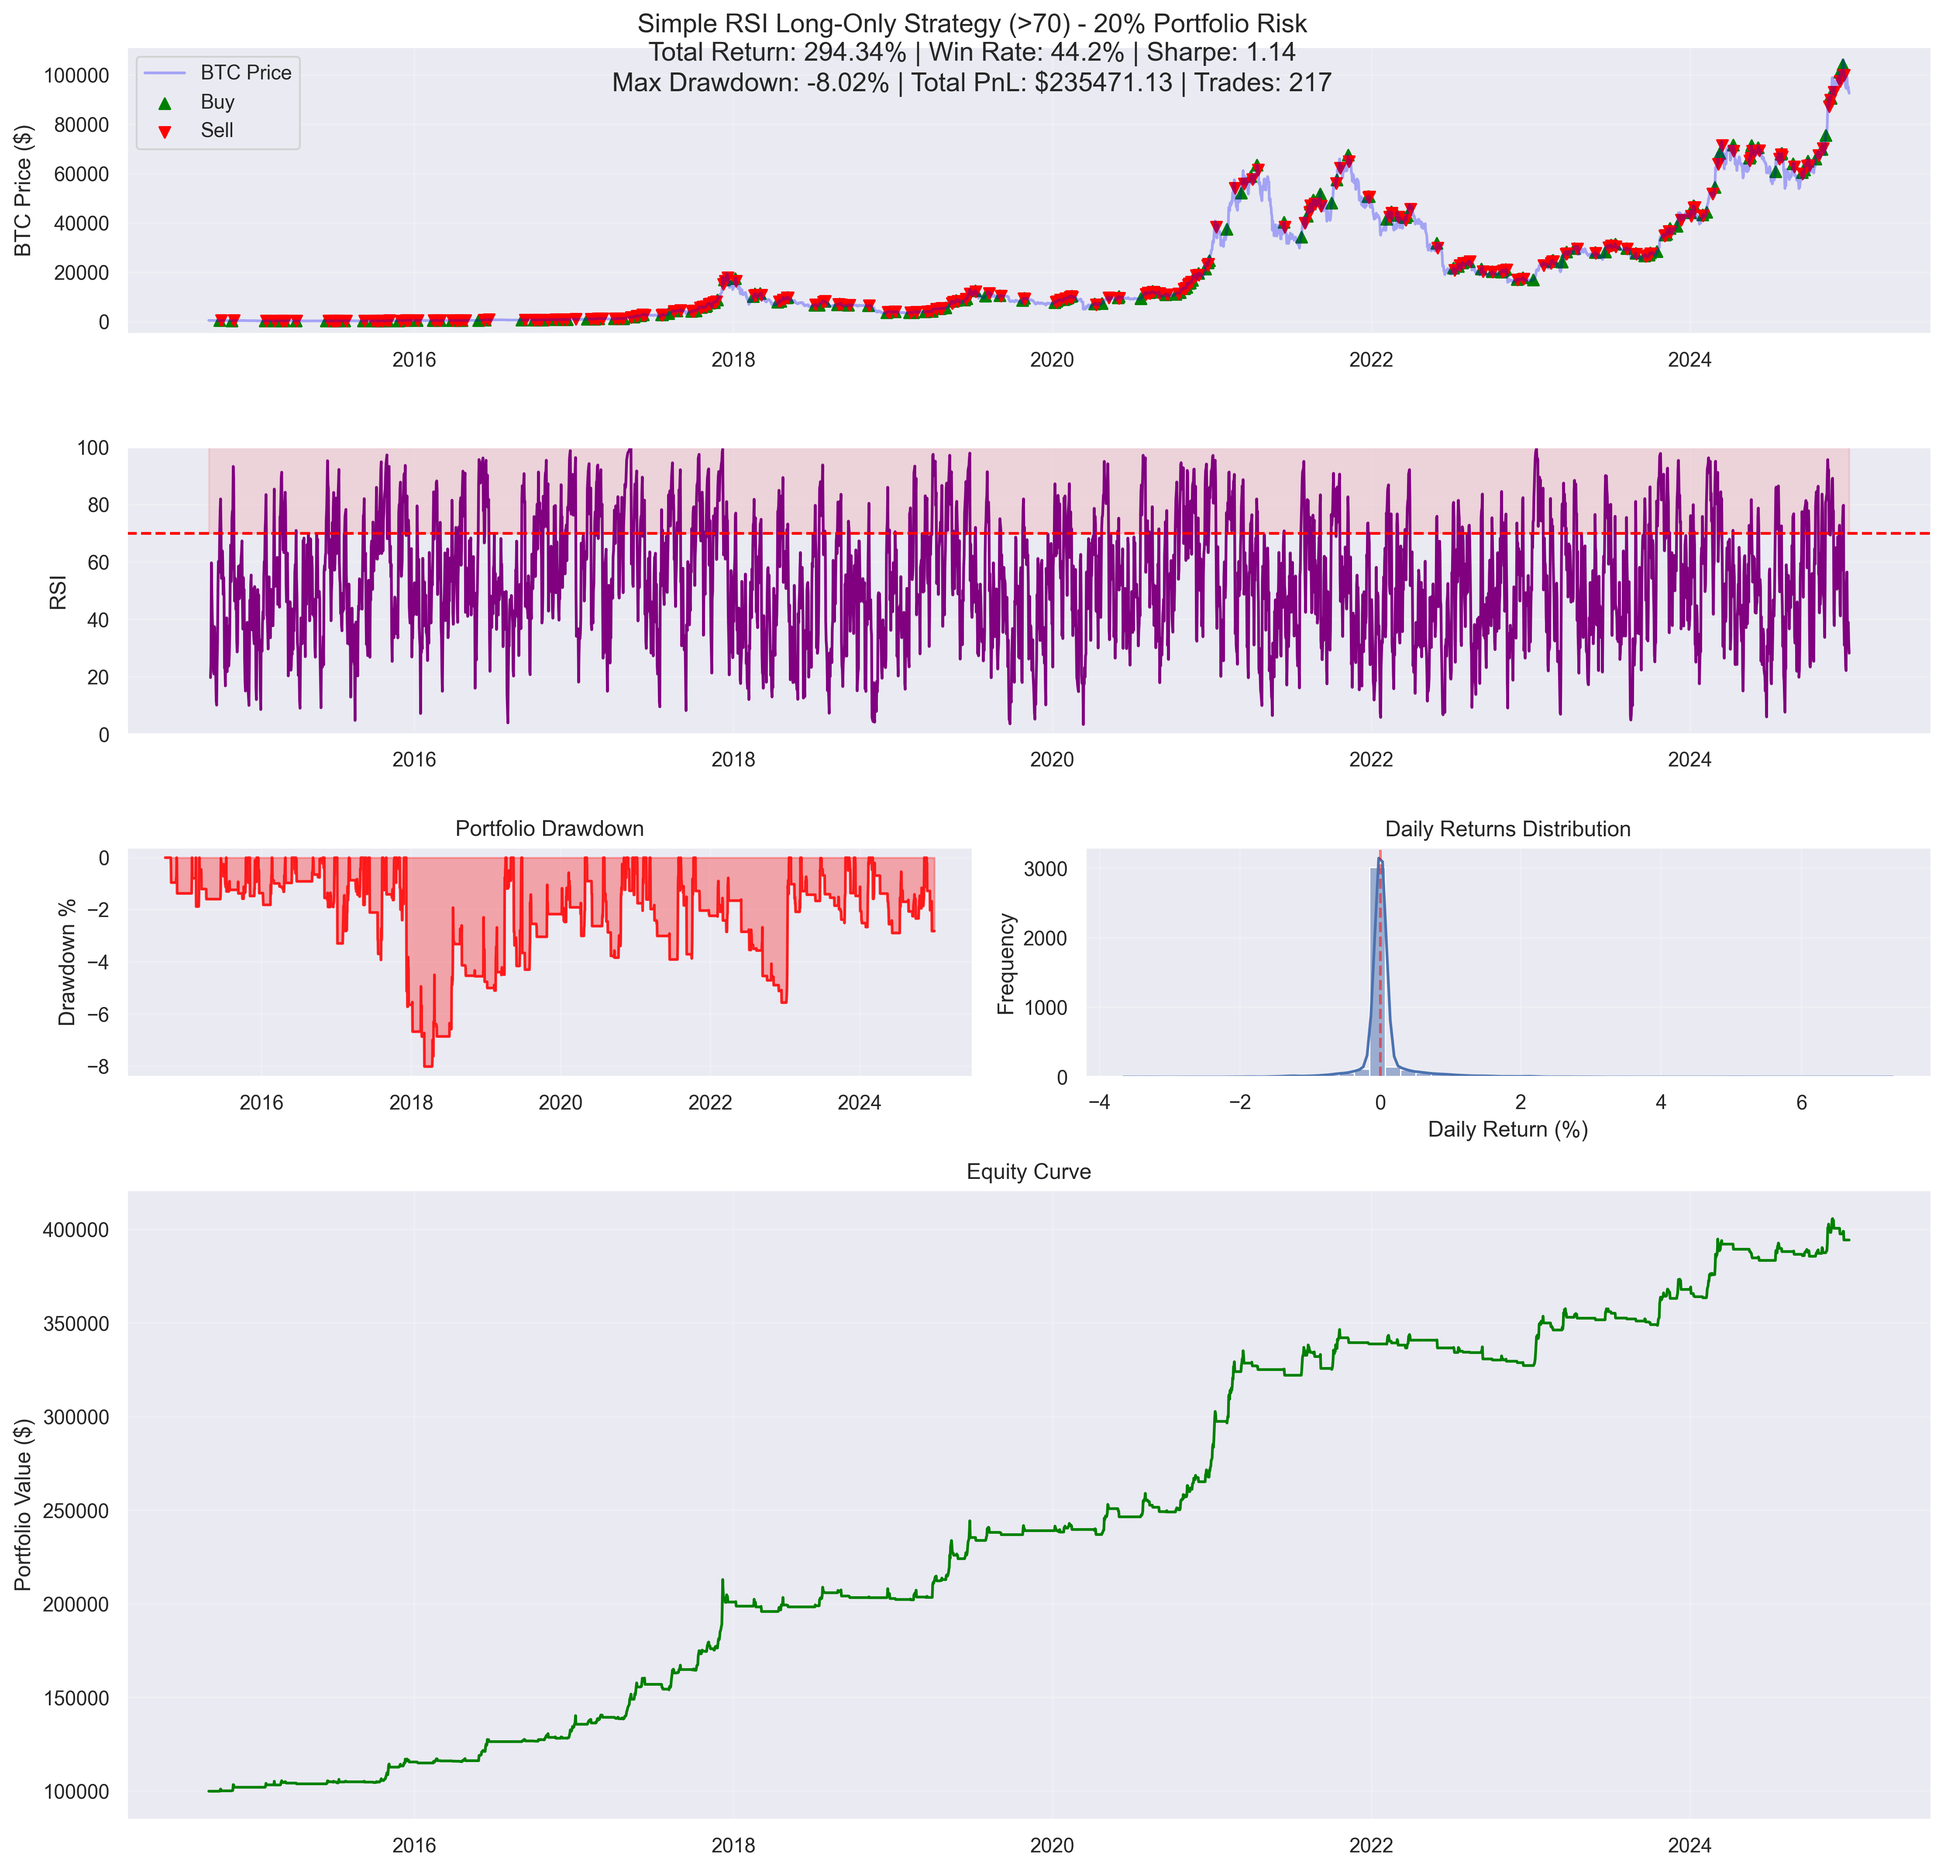
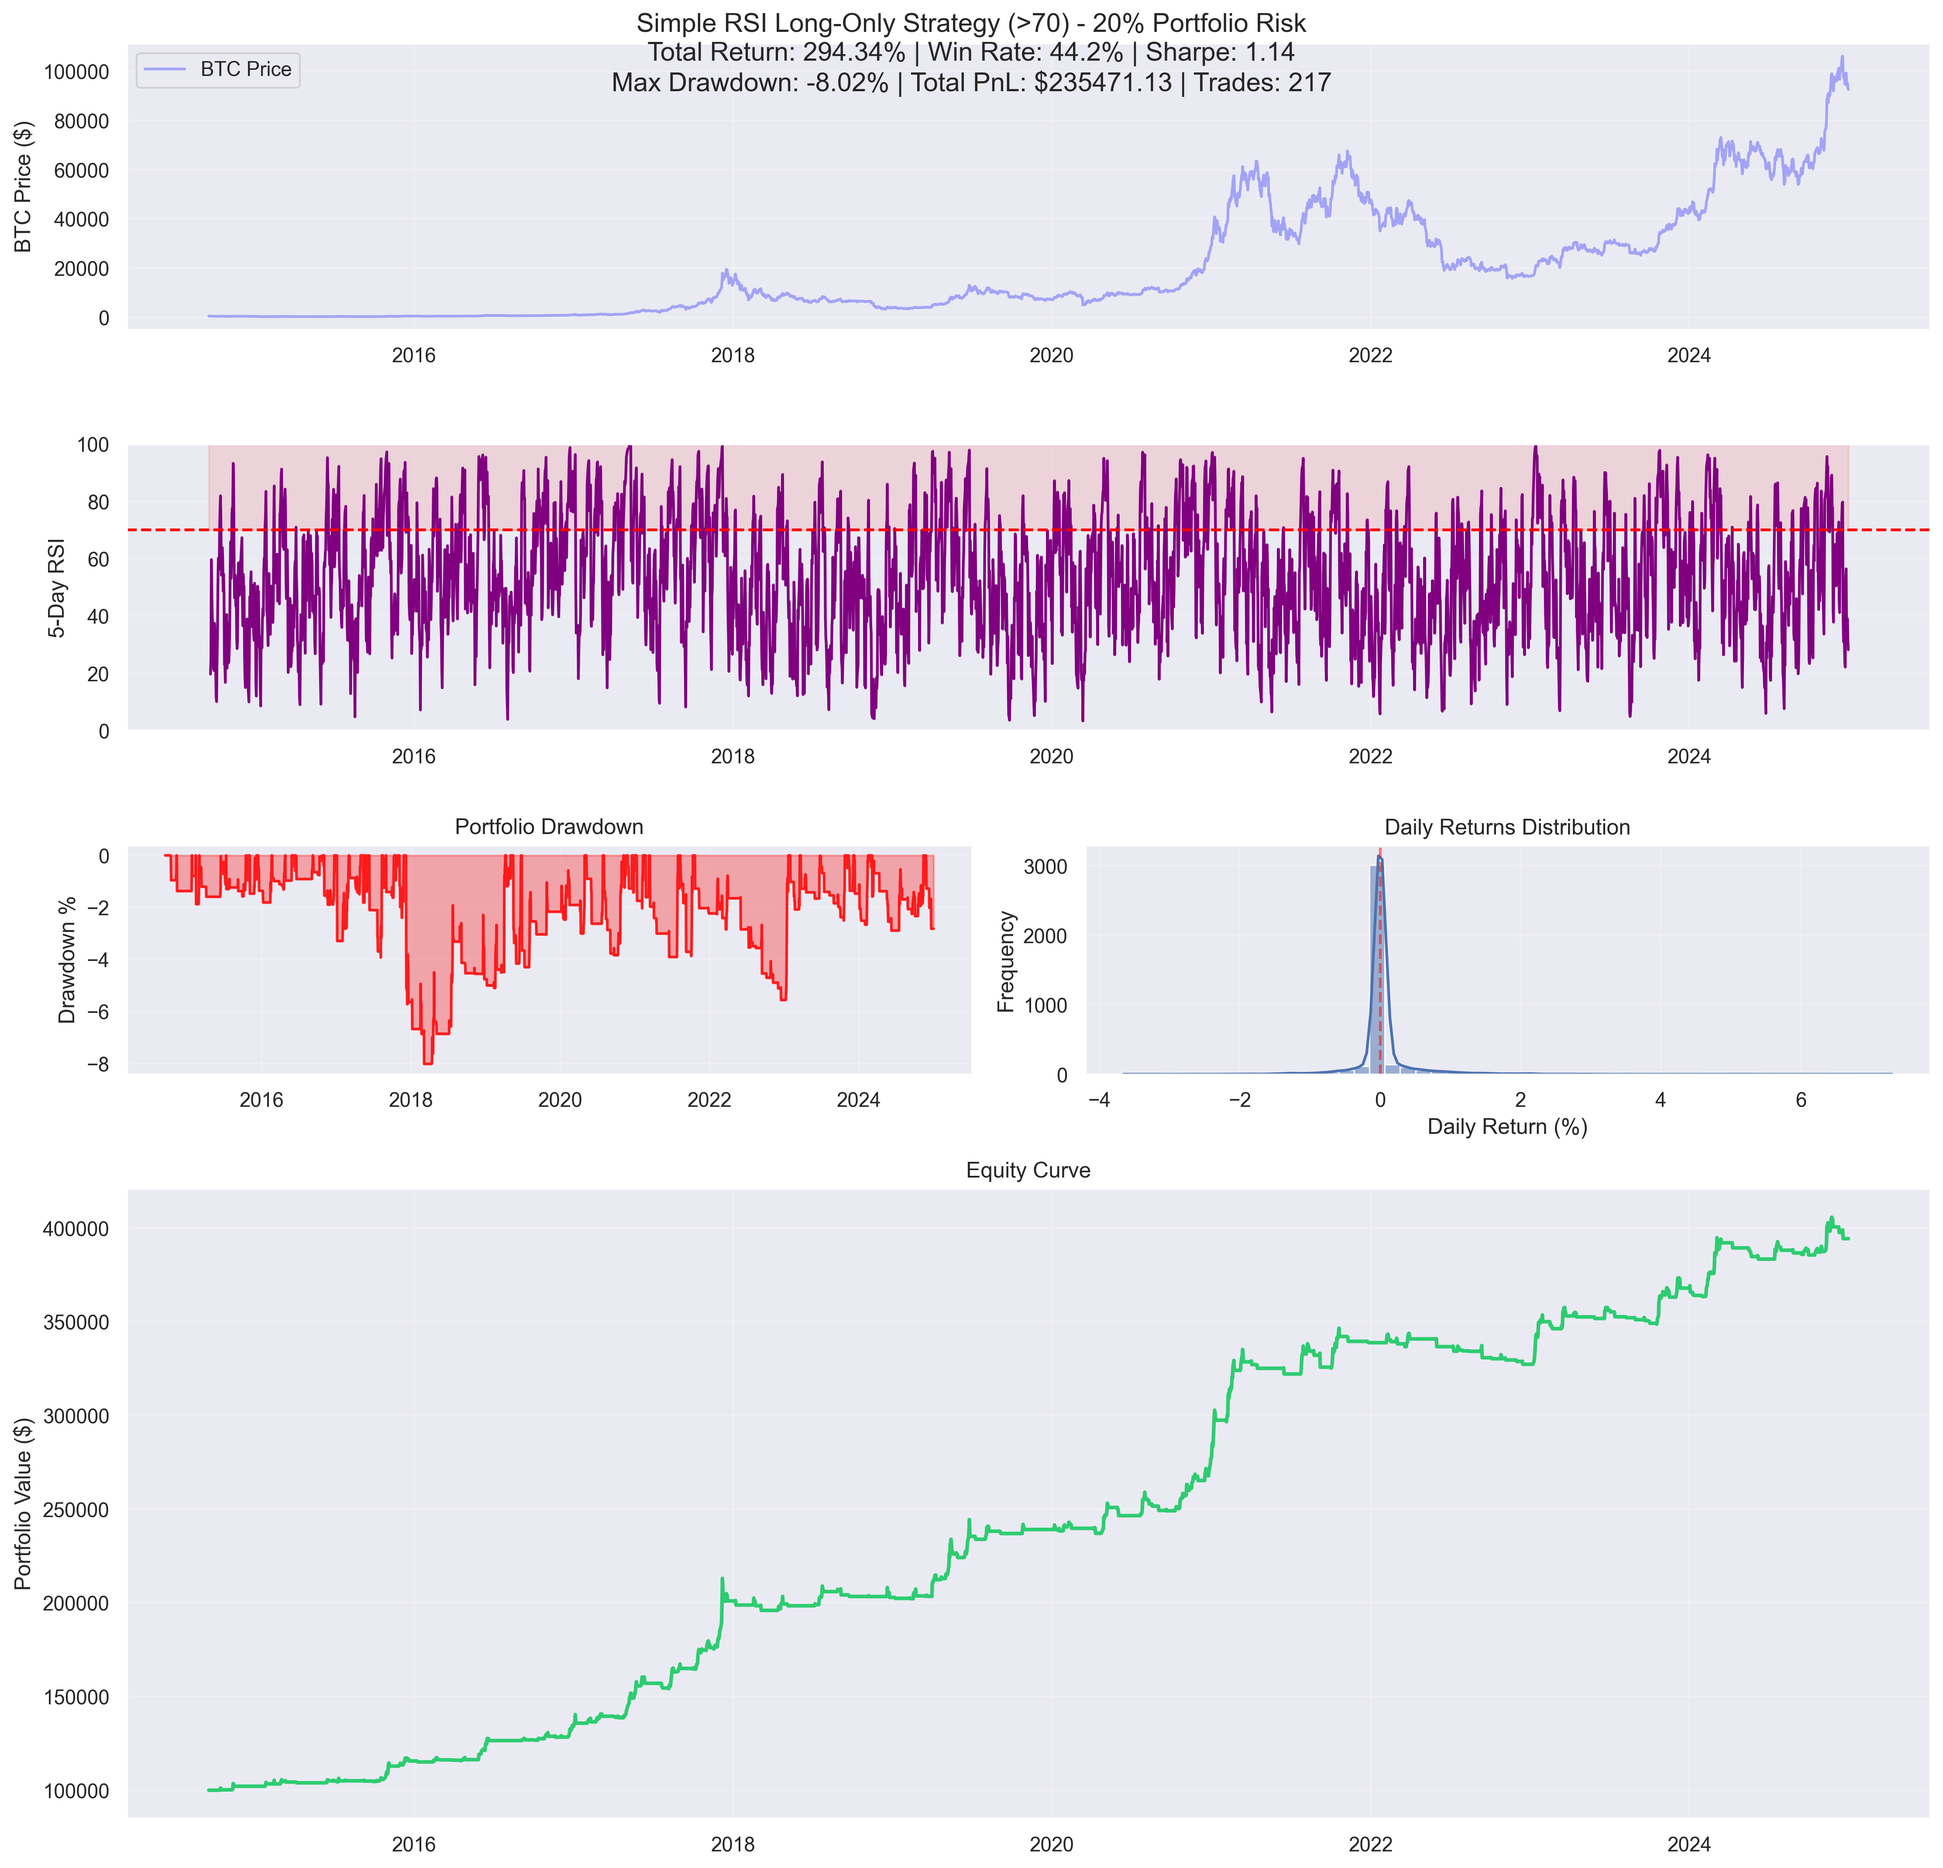
Update visualization: remove trade markers, enhance RSI label, improve equity curve styling and update README

diff --git a/plot_simple_rsi.py b/plot_simple_rsi.py
@@ -124,11 +124,6 @@ gs = plt.GridSpec(5, 2, figure=fig, height_ratios=[1, 1, 0.8, 0.8, 1])
 # Price and trades (spanning both columns)
 ax1 = fig.add_subplot(gs[0, :])
 ax1.plot(df.index, df['Close'], color='blue', alpha=0.3, label='BTC Price')
-if not trades_df.empty:
-    buy_trades = trades_df[trades_df['type'] == 'BUY']
-    sell_trades = trades_df[trades_df['type'] == 'SELL']
-    ax1.scatter(buy_trades['date'], buy_trades['price'], color='green', marker='^', label='Buy')
-    ax1.scatter(sell_trades['date'], sell_trades['price'], color='red', marker='v', label='Sell')
 ax1.set_ylabel('BTC Price ($)')
 ax1.legend()
 
@@ -137,7 +132,7 @@ ax2 = fig.add_subplot(gs[1, :])
 ax2.plot(df.index, df['RSI'], color='purple')
 ax2.axhline(y=70, color='red', linestyle='--')
 ax2.fill_between(df.index, 70, 100, color='red', alpha=0.1)
-ax2.set_ylabel('RSI')
+ax2.set_ylabel('5-Day RSI')
 ax2.set_ylim(0, 100)
 
 # Drawdown (left column)
@@ -158,7 +153,7 @@ ax4.set_ylabel('Frequency')
 
 # Portfolio Value (spanning both columns, at bottom)
 ax5 = fig.add_subplot(gs[3:, :])
-ax5.plot(portfolio_df.index, portfolio_df['Portfolio_Value'], color='green')
+ax5.plot(portfolio_df.index, portfolio_df['Portfolio_Value'], color='#2ecc71', linewidth=2)
 ax5.set_ylabel('Portfolio Value ($)')
 ax5.set_title('Equity Curve')
 

diff --git a/README.md b/README.md
@@ -10,6 +10,8 @@ The strategy implements a simple yet effective approach:
 - Maintains a long-only approach with clear entry/exit rules
 - Achieved 294.34% return in backtesting
 
+![Strategy Visualization](simple_rsi_strategy.png)
+
 ## Key Features
 
 - **RSI-based Signals**: Short-term (5-period) RSI for quick signal generation
@@ -64,12 +66,28 @@ This will:
 
 ## Visualization Components
 
-The strategy generates a comprehensive visualization including:
-1. Bitcoin price with buy/sell signals
-2. RSI indicator with overbought threshold
-3. Portfolio drawdown analysis
-4. Returns distribution
-5. Equity curve
+The strategy generates a comprehensive visualization with multiple components:
+
+1. **Bitcoin Price Chart**
+   - Clean price line visualization
+   - Minimalist design for better readability
+
+2. **5-Day RSI Indicator**
+   - Short-term RSI with 5-period window
+   - Overbought threshold at 70 (red dashed line)
+   - Highlighted overbought zone for clear signal identification
+
+3. **Portfolio Analysis**
+   - Drawdown visualization showing risk exposure over time
+   - Daily returns distribution with density estimation
+   - Equity curve with modern styling (#2ecc71 green)
+
+## Chart Features
+
+- **Clean Design**: Removed trade markers for cleaner visualization
+- **Modern Styling**: Enhanced equity curve visualization with appealing color scheme
+- **Clear Indicators**: Explicit labeling of 5-Day RSI for better understanding
+- **Grid Layout**: Organized display of key metrics and charts
 
 ## Project Structure
 
